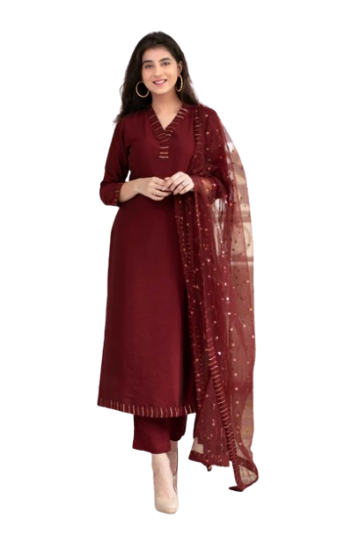
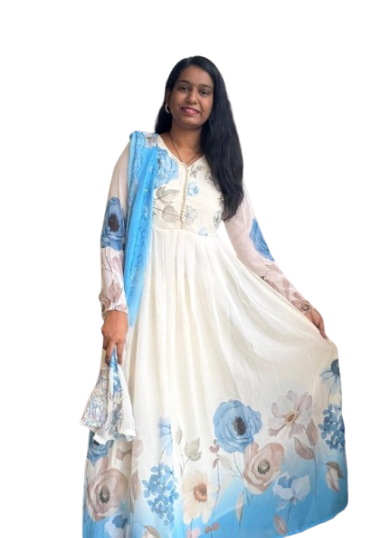
feat: add About page and implement animated HeroSection with slide transition logic

diff --git a/src/components/HeroSection.tsx b/src/components/HeroSection.tsx
@@ -13,7 +13,7 @@ const slides = [
   {
     id: "new-arrivals",
     name: "New Arrivals",
-    bgColor: "#2d0707ff",
+    bgColor: "#55a5c4ff",
     description: "Discover our latest collection of premium sarees, crafted for elegance and designed to make you stand out at any occasion.",
     themeText: "ARRIVALS",
     heroImage: "/image.png",
@@ -31,7 +31,7 @@ const slides = [
   {
     id: "designer",
     name: "Designer Wear",
-    bgColor: "#6e2349ff",
+    bgColor: "#cac33bff",
     description: "Statement pieces with soft movement and beautiful finishes. Redefining modern luxury for the contemporary woman.",
     themeText: "DESIGNER",
     heroImage: "/image2.png",
@@ -40,7 +40,7 @@ const slides = [
   {
     id: "heritage",
     name: "Heritage Styles",
-    bgColor: "#d09fc8ff",
+    bgColor: "#0e1133ff",
     description: "Traditional details refreshed with a modern boutique finish. Embrace the timeless beauty of authentic ethnic wear.",
     themeText: "HERITAGE",
     heroImage: "/image3.png",

diff --git a/src/pages/Aboutpage.tsx b/src/pages/Aboutpage.tsx
@@ -22,7 +22,7 @@ export default function AboutPage() {
                                 <div className="relative">
                                     <div className="aspect-[4/5] rounded-[60px] overflow-hidden">
                                         <img
-                                            src={logo}
+                                            src="/abt.png"
                                             alt="Brand story"
                                             className="w-full h-full object-cover"
                                         />
